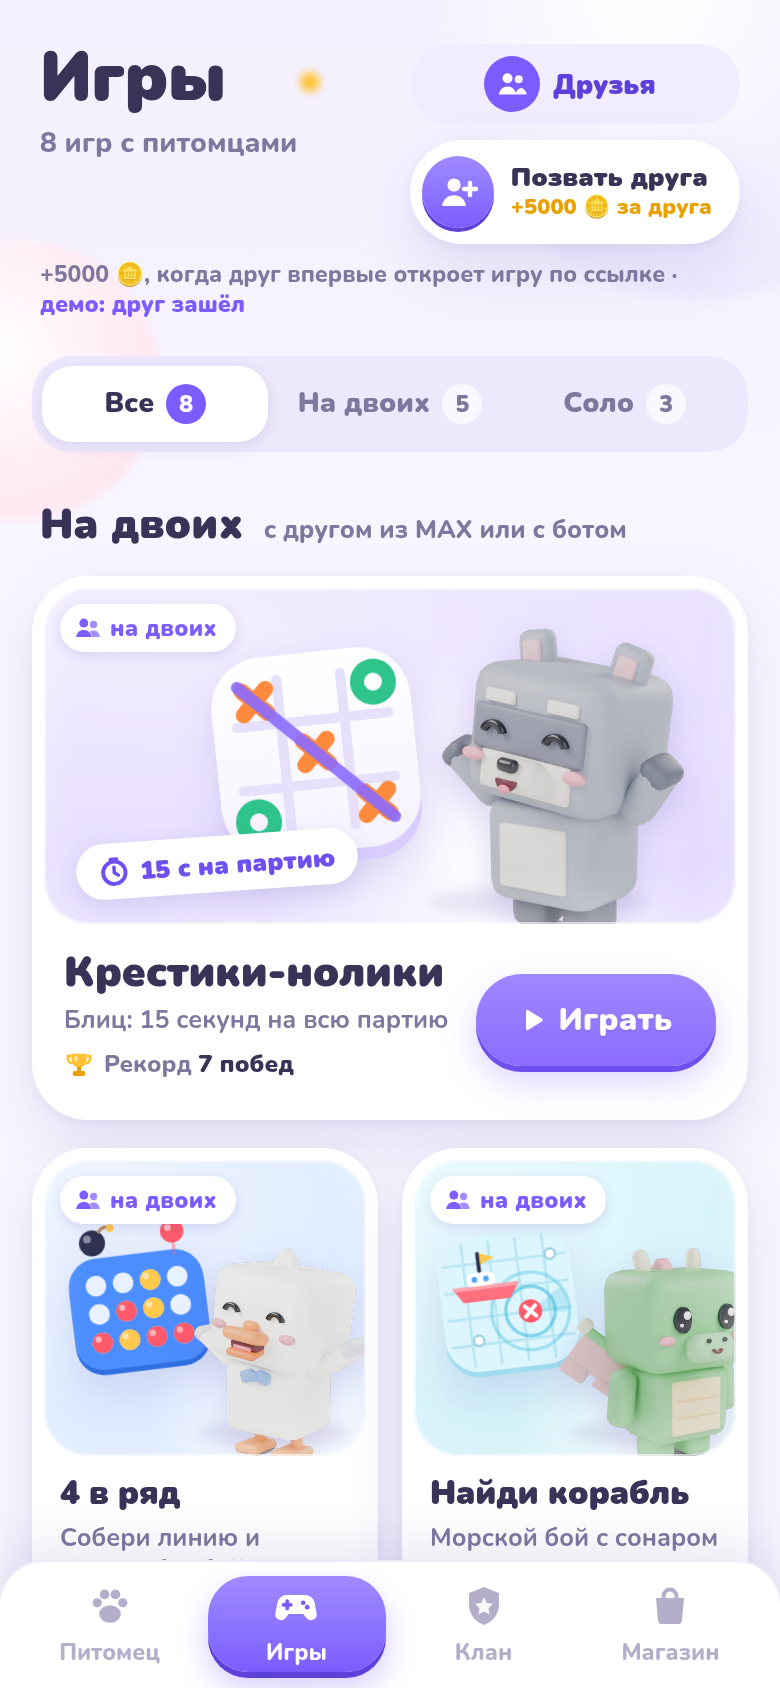
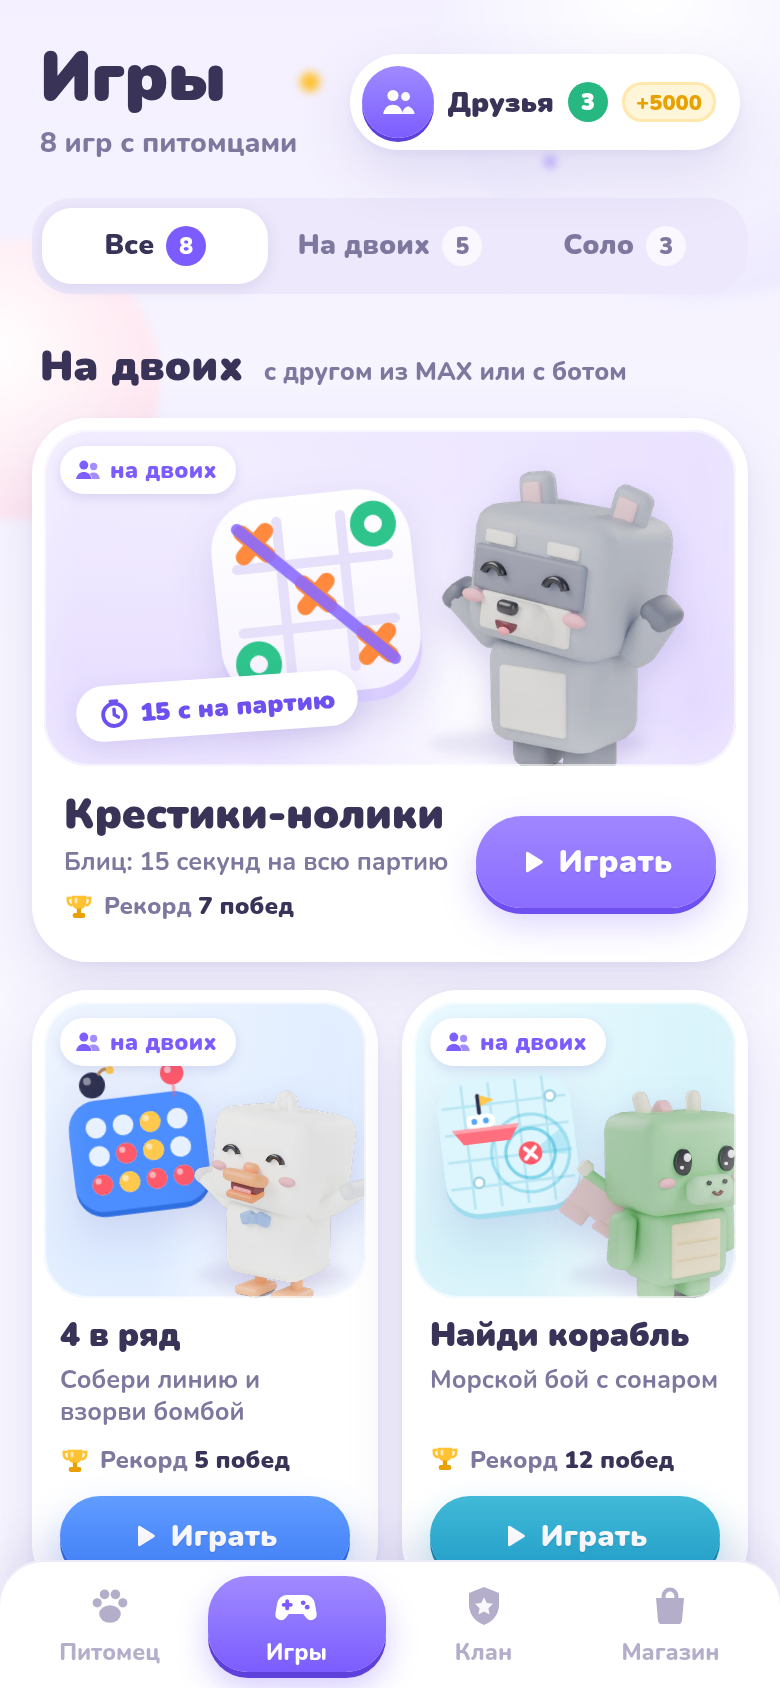
Simplify the Игры header to a single compact «Друзья» button.
Remove the extra «Позвать друга» block and the +5000 explainer from the catalog header so the games list sits back under the title and filter tabs. The invite CTA and demo trigger stay on the Friends screen. Drop the home «Друзья · 3» chip that added a second row under energy. Cache-bust ?v=tc11140250.

diff --git a/tapyshi-concept/games/catalog-a/style.css b/tapyshi-concept/games/catalog-a/style.css
@@ -7,24 +7,19 @@ body{background:linear-gradient(180deg,var(--bg-tint) 0,var(--bg) 340px,var(--bg
 .bgdeco .b3{width:10px;height:10px;left:150px;top:36px;background:var(--sun);box-shadow:120px 40px 0 -2px color-mix(in srgb,var(--violet) 50%,var(--white))}
 .page{position:relative;z-index:1;padding:18px 16px calc(var(--tabbar-space) + 24px);max-width:440px;margin:0 auto}
 .top{display:flex;align-items:center;justify-content:space-between;gap:12px;padding:4px 4px 0}
-.top--acts{display:grid;grid-template-columns:1fr auto;gap:8px 12px;align-items:start}
-.top-acts{display:flex;flex-direction:column;gap:8px;align-items:stretch}
 .ttl h1{margin:0;font-size:34px;line-height:1.05;font-weight:1000;letter-spacing:-.4px;color:var(--ink)}
 .ttl p{margin:4px 0 0;font-size:14px;color:var(--ink-2);font-weight:800}
-.top--acts .inv-hint{grid-column:1/-1;max-width:none;margin-top:0}
 .invite{display:flex;align-items:center;gap:8px;min-height:52px;padding:6px 14px 6px 6px;border-radius:var(--r-pill);background:var(--white);box-shadow:var(--sh-md);font-size:12.5px;line-height:1.15;font-weight:900;color:var(--ink);text-align:left;flex:none}
 .invite .ic{width:36px;height:36px;border-radius:50%;display:grid;place-items:center;color:var(--white);background:linear-gradient(180deg,color-mix(in srgb,var(--violet) 72%,var(--white)),var(--violet));box-shadow:0 2px 0 var(--violet-edge);flex:none}
 .invite .ic svg{width:20px;height:20px}
 .invite .tx{display:flex;flex-direction:column;gap:1px}
 .invite .tx b{font-weight:1000;font-size:13px}
 .invite .tx em{font-style:normal;font-size:11px;font-weight:900;color:var(--sun-edge);white-space:nowrap}
-.inv-hint{display:block;margin-top:6px;font-size:11.5px;font-weight:800;color:var(--ink-2);line-height:1.3}
 .inv-demo{color:var(--violet);font-weight:900}
 @media (max-width:370px){
   .ttl h1{font-size:30px}
   .invite{padding:5px 10px 5px 5px;gap:6px}
   .invite .tx b{font-size:12px}
-  
 }
 
 .seg{display:flex;gap:4px;margin:18px 0 6px;padding:5px;background:var(--fill);border-radius:20px}
@@ -87,9 +82,13 @@ body{background:linear-gradient(180deg,var(--bg-tint) 0,var(--bg) 340px,var(--bg
 }
 
 /* Друзья — вход с вкладки Игры, не отдельный таб */
-.friends-btn{display:flex;align-items:center;justify-content:center;gap:7px;height:40px;padding:0 14px 0 8px;border-radius:var(--r-pill);background:var(--violet-soft);color:var(--violet-edge);font-size:13.5px;font-weight:1000;box-shadow:none}
-.friends-btn .ic{width:28px;height:28px;border-radius:50%;display:grid;place-items:center;background:var(--violet);color:var(--white)}
-.friends-btn .ic svg{width:16px;height:16px}
+.friends-btn{display:flex;align-items:center;gap:7px;height:48px;padding:0 12px 0 6px;border-radius:var(--r-pill);background:var(--white);box-shadow:var(--sh-md);font-size:14px;font-weight:1000;color:var(--ink);flex:none;white-space:nowrap}
+.friends-btn .ic{width:36px;height:36px;border-radius:50%;display:grid;place-items:center;color:var(--white);background:linear-gradient(180deg,color-mix(in srgb,var(--violet) 72%,var(--white)),var(--violet));box-shadow:0 2px 0 var(--violet-edge);flex:none}
+.friends-btn .ic svg{width:18px;height:18px}
+.friends-btn .on-n{min-width:20px;height:20px;padding:0 6px;border-radius:10px;background:var(--green);color:var(--white);font-size:11.5px;font-weight:1000;display:grid;place-items:center;line-height:1}
+.friends-btn .rw{height:20px;padding:0 7px;border-radius:10px;background:var(--sun-soft);color:var(--sun-edge);font-size:11px;font-weight:900;display:grid;place-items:center;box-shadow:inset 0 0 0 1.5px color-mix(in srgb,var(--sun) 40%,var(--white))}
+.fr-demos{display:flex;flex-wrap:wrap;justify-content:center;gap:8px 16px;margin:16px 0 0;padding:0;border:0}
+.fr-demos .inv-demo{background:none;border:0;padding:0;cursor:pointer;font:inherit}
 .invite--wide{width:100%;justify-content:flex-start;margin:4px 0 14px;min-height:54px;padding-right:16px}
 .fr-page{padding-top:10px}
 .fr-top{display:flex;align-items:center;gap:10px;margin-bottom:12px}
@@ -133,8 +132,9 @@ body{background:linear-gradient(180deg,var(--bg-tint) 0,var(--bg) 340px,var(--bg
 .fr-pick .g-opts .oi{width:42px;height:42px;border-radius:14px;display:grid;place-items:center;background:var(--bg1,var(--fill));color:var(--c,var(--violet));flex:none}
 .fr-pick .g-opts .oi svg{width:26px;height:26px}
 @media (max-width:370px){
-  .friends-btn{height:36px;padding:0 10px 0 6px;font-size:12.5px}
-  .friends-btn .ic{width:26px;height:26px}
+  .friends-btn{height:44px;padding:0 8px 0 5px;gap:5px;font-size:13px}
+  .friends-btn .ic{width:32px;height:32px}
+  .friends-btn .rw{padding:0 6px;font-size:10.5px}
   .fr-row{grid-template-columns:46px 1fr auto;padding:8px 10px;gap:8px}
   .fr-ava{width:46px;height:46px}
   .fr-ava img{width:40px;height:40px}

diff --git a/tapyshi-concept/games/shared/screens.js b/tapyshi-concept/games/shared/screens.js
@@ -43,7 +43,7 @@ function card(g,wide){
 function catalog(){
   var duo=G.filter(function(g){return g.mode==='duo'}),solo=G.filter(function(g){return g.mode==='solo'});
   return '<div class="bgdeco" aria-hidden="true"><i class="b1"></i><i class="b2"></i><i class="b3"></i></div><main class="page">'+
-  '<header class="top top--acts"><div class="ttl"><h1>Игры</h1><p>8 игр с питомцами</p></div><div class="top-acts"><button type="button" class="friends-btn spring" data-act="friends"><span class="ic">'+IC.people+'</span><span>Друзья</span></button><button class="invite spring" data-act="invite-any"><span class="ic"><svg viewBox="0 0 20 20"><circle cx="8" cy="6.5" r="3.3" fill="currentColor"/><path d="M2 17c.6-3.6 3-5.4 6-5.4s5.4 1.8 6 5.4z" fill="currentColor"/><path d="M16 5.5v6M13 8.5h6" stroke="currentColor" stroke-width="2.2" stroke-linecap="round"/></svg></span><span class="tx"><b>Позвать друга</b><em>+5000 🪙 за друга</em></span></button></div><small class="inv-hint">+5000 🪙, когда друг впервые откроет игру по ссылке · <button type="button" class="inv-demo" data-invite-demo>демо: друг зашёл</button></small></header>'+
+  '<header class="top"><div class="ttl"><h1>Игры</h1><p>8 игр с питомцами</p></div><button type="button" class="friends-btn spring" data-act="friends" aria-label="Друзья, 3 в сети, +5000 за друга"><span class="ic">'+IC.people+'</span><span>Друзья</span><span class="on-n">3</span><span class="rw">+5000</span></button></header>'+
   '<div class="seg"><button class="spring on" data-f="all">Все <em>8</em></button><button class="spring" data-f="duo">На двоих <em>5</em></button><button class="spring" data-f="solo">Соло <em>3</em></button></div>'+
   '<section class="sec" data-sec="duo"><div class="sech"><h2>На двоих</h2><span>с другом из MAX или с ботом</span></div><div class="grid">'+duo.map(function(g,i){return card(g,!i)}).join('')+'</div></section>'+
   '<section class="sec" data-sec="solo"><div class="sech"><h2>Соло</h2><span>головоломки на рекорд</span></div><div class="grid">'+solo.map(function(g,i){return card(g,!i)}).join('')+'</div></section>'+
@@ -204,7 +204,7 @@ function friends(o){
     return '<main class="page fr-page">'+head+cta+
       '<div class="fr-empty"><div class="fr-ghost">'+IC.people+'</div><h2>Пока нет друзей</h2><p>Позови друга из MAX — когда он впервые откроет игру по ссылке, тебе придёт <b>+5000 🪙</b>.</p>'+
       '<button type="button" class="btn btn--primary btn--l" data-act="invite-any">Позвать друга</button>'+
-      '<button type="button" class="inv-demo" data-act="friends-demo">показать демо-список</button></div></main>'+(o.pick?pickSheet(o):'');
+      '<p class="fr-demos"><button type="button" class="inv-demo" data-invite-demo>демо: друг зашёл</button><button type="button" class="inv-demo" data-act="friends-demo">показать демо-список</button></p></div></main>'+(o.pick?pickSheet(o):'');
   }
   function row(f,inv){
     var act='';
@@ -217,7 +217,7 @@ function friends(o){
   var body='<p class="fr-earn">С приглашений: <b>'+fmt(earned)+' 🪙</b> · '+invited.filter(function(f){return f.joined;}).length+' из '+invited.length+' зашли'+(pending?' · ещё '+pending+' не зашёл':'')+'</p>'+
     '<section class="fr-sec"><div class="sech"><h2>Друзья</h2><span>'+main.filter(function(f){return f.on;}).length+' в сети сверху</span></div><div class="fr-list">'+main.map(function(f){return row(f,0);}).join('')+'</div></section>'+
     '<section class="fr-sec" id="invited"><div class="sech"><h2>Приглашён тобой</h2><span class="fr-badge">'+invited.length+'</span></div><div class="fr-list">'+invited.map(function(f){return row(f,1);}).join('')+'</div></section>'+
-    '<button type="button" class="inv-demo fr-empty-link" data-act="friends-empty">показать пустой список (демо)</button>';
+    '<p class="fr-demos"><button type="button" class="inv-demo" data-invite-demo>демо: друг зашёл</button><button type="button" class="inv-demo" data-act="friends-empty">показать пустой список</button></p>';
   return '<main class="page fr-page">'+head+cta+body+'</main>'+(o.pick?pickSheet(o):'');
 }
 function pickSheet(o){

diff --git a/tapyshi-concept/games/index.html b/tapyshi-concept/games/index.html
@@ -4,18 +4,18 @@
 <meta charset="utf-8">
 <meta name="viewport" content="width=device-width, initial-scale=1, viewport-fit=cover">
 <title>Тапыши · Игры</title>
-<link rel="stylesheet" href="shared/tokens.css?v=tc11132410">
-<link rel="stylesheet" href="shared/components.css?v=tc11132410">
-<link rel="stylesheet" href="catalog-a/style.css?v=tc11132410">
-<link rel="stylesheet" href="shared/screens.css?v=tc11132410">
+<link rel="stylesheet" href="shared/tokens.css?v=tc11140250">
+<link rel="stylesheet" href="shared/components.css?v=tc11140250">
+<link rel="stylesheet" href="catalog-a/style.css?v=tc11140250">
+<link rel="stylesheet" href="shared/screens.css?v=tc11140250">
 </head>
 <body>
 <div id="app"></div>
 <script>window.TAP_PROTO=1;window.TAP_BASE='shared/';</script>
-<script src="shared/games.js?v=tc11132410"></script>
-<script src="shared/screens.js?v=tc11132410"></script>
-<script src="../shared/nav.js?v=tc11132410"></script>
-<script src="../shared/invite.js?v=tc11132410"></script>
-<script src="proto.js?v=tc11132410"></script>
+<script src="shared/games.js?v=tc11140250"></script>
+<script src="shared/screens.js?v=tc11140250"></script>
+<script src="../shared/nav.js?v=tc11140250"></script>
+<script src="../shared/invite.js?v=tc11140250"></script>
+<script src="proto.js?v=tc11140250"></script>
 </body>
 </html>

diff --git a/tapyshi-concept/pet/core.js b/tapyshi-concept/pet/core.js
@@ -114,8 +114,7 @@ const HUD = `
   <div class="hud">
     <div class="top">
       <div class="pill card bal" id="bal"><span class="cico" id="balIco"></span><span class="num" id="balNum"></span></div>
-      <div class="enw"><div class="pill card"><svg class="ic"><use href="#i-bolt"/></svg><span class="num" id="enNum"></span><span class="bar"><i id="enBar"></i></span></div>
-      <a class="fr-chip card pe" href="games/?friends=1"><svg viewBox="0 0 20 20" aria-hidden="true"><circle cx="7.2" cy="6.4" r="3.1" fill="currentColor"/><path d="M1.8 16.6c.5-3.4 2.8-5.1 5.4-5.1s4.9 1.7 5.4 5.1z" fill="currentColor"/><circle cx="14.2" cy="7" r="2.5" fill="currentColor" opacity=".95"/><path d="M12.2 16.6c.3-2.2 1.5-3.7 3.5-4.2 2 .7 3.3 2.3 3.6 4.2z" fill="currentColor" opacity=".95"/></svg>Друзья<b>3</b></a></div>
+      <div class="enw"><div class="pill card"><svg class="ic"><use href="#i-bolt"/></svg><span class="num" id="enNum"></span><span class="bar"><i id="enBar"></i></span></div></div>
     </div>
     <div class="side">
       <button class="rb card pe" aria-label="Задания"><svg class="ic"><use href="#i-tasks"/></svg><span class="dot n">2</span></button>

diff --git a/tapyshi-concept/pet/tap.css b/tapyshi-concept/pet/tap.css
@@ -29,9 +29,6 @@ canvas.scene{position:absolute;inset:0;width:100%;height:100%;display:block;touc
 .bal .cico{position:relative;width:34px;height:34px;flex:none;will-change:transform}
 .bal .cico img{width:100%;height:100%;display:block}
 .enw{display:flex;flex-direction:column;align-items:flex-end;gap:6px}
-.fr-chip{display:inline-flex;align-items:center;gap:6px;height:32px;padding:0 10px 0 8px;border-radius:16px;font-size:13px;font-weight:1000;color:var(--violet-edge);text-decoration:none}
-.fr-chip svg{width:16px;height:16px;flex:none}
-.fr-chip b{min-width:18px;height:18px;padding:0 5px;border-radius:9px;background:var(--green);color:var(--white);font-size:11px;line-height:18px;text-align:center}
 .enw .pill{gap:5px;padding:0 14px 0 9px}.enw .pill .ic{width:26px;height:26px}
 .enw .pill .num{display:inline-block;min-width:2.6em;text-align:right;contain:layout paint}
 .enw .bar{width:54px;height:8px;border-radius:4px;background:var(--fill);overflow:hidden}

diff --git a/tapyshi-concept/index.html b/tapyshi-concept/index.html
@@ -7,12 +7,12 @@
 <link rel="preload" href="shared/fonts/Nunito.woff2?v=tc11132310" as="font" type="font/woff2" crossorigin>
 <link rel="stylesheet" href="shared/tokens.css?v=tc11132310">
 <link rel="stylesheet" href="shared/components.css?v=tc11132310">
-<link rel="stylesheet" href="pet/tap.css?v=tc11132410">
+<link rel="stylesheet" href="pet/tap.css?v=tc11140250">
 <script type="importmap">{"imports":{"three":"./lib/three.module.min.js?v=tc11132310"}}</script>
 </head>
 <body>
 <div class="app"></div>
 <script src="pet/icons.js?v=tc11132310"></script>
 <script src="shared/nav.js?v=tc11132310"></script>
-<script type="module" src="pet/fx.js?v=tc11132410"></script>
+<script type="module" src="pet/fx.js?v=tc11140250"></script>
 </body></html>

diff --git a/tapyshi-concept/pet/fx.js b/tapyshi-concept/pet/fx.js
@@ -1,7 +1,7 @@
 // Вариант A · «Плавный досчёт»
 // +1 у пальца (WAAPI), баланс досчитывается твином в rAF (текст ≤ 20 раз/с) с мягким пульсом иконки,
 // одна красивая монета летит к балансу раз в 10 тапов; при посадке — блик по плашке.
-import { startApp, addTicker, RM, S, fmt, coinCanvas, glintCanvas, spriteURL } from './core.js?v=tc11132410';
+import { startApp, addTicker, RM, S, fmt, coinCanvas, glintCanvas, spriteURL } from './core.js?v=tc11140250';
 import { pool, play, arc, img } from './fxkit.js?v=tc11132310';
 import { plusFx } from './plus.js?v=tc11132310';
 
